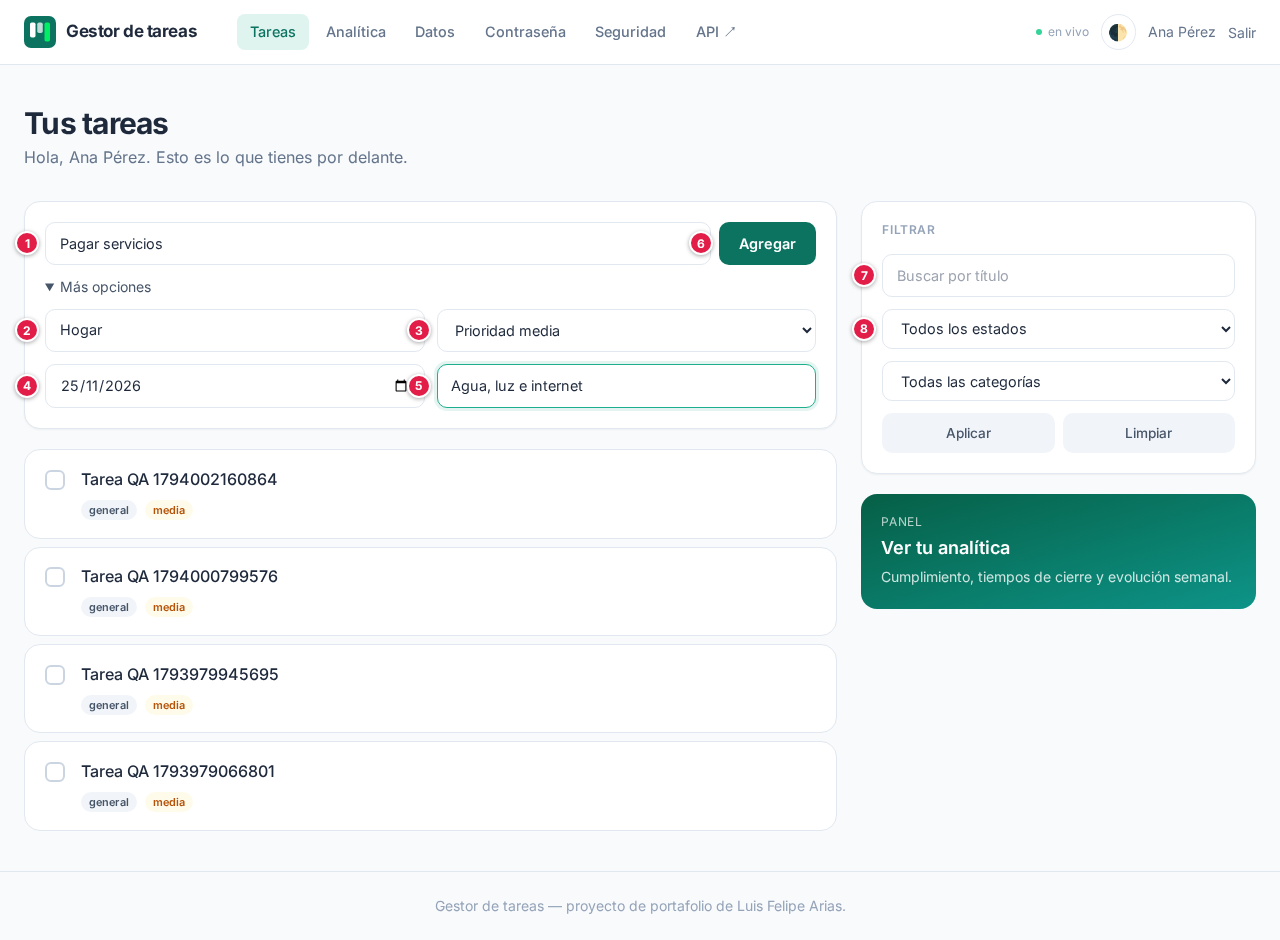
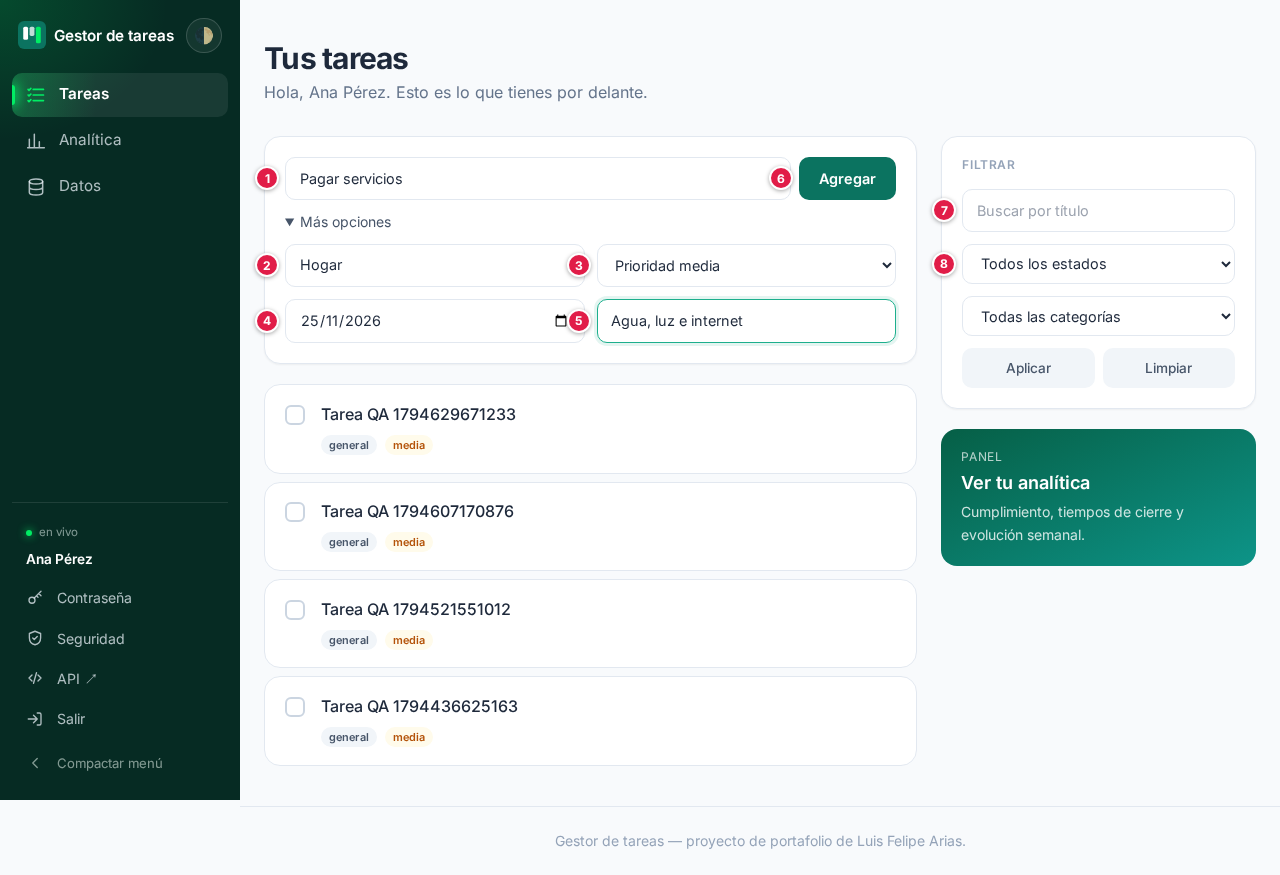
docs(manual): capturas nuevas de producción, menú lateral y compacto, tablet y celular, seis casillas, indicadores, instalación, sin conexión y 404 [skip ci]

diff --git a/docs/MANUAL.md b/docs/MANUAL.md
@@ -118,6 +118,10 @@ Después de la contraseña aparece la pantalla del código:
 
 Si tienes los dos métodos activos, puedes cambiar al otro desde la misma pantalla.
 
+El código se escribe en **seis casillas**, una por dígito: puedes teclearlo o pegarlo completo.
+Un candado sobre el título se abre al enviar el código completo y se sacude si no es válido; con la
+app autenticadora, un anillo muestra cuántos segundos faltan para que la app cambie de código.
+
 La sesión se cierra tras **30 minutos sin actividad** y, en cualquier caso, a las **12 horas**.
 
 ### 4.3.1 Olvidé mi contraseña
@@ -186,6 +190,22 @@ recuperación se bloquea unos minutos. Si no pediste este código, cambia tu con
 
 ### 4.4 Tus tareas
 
+**Menú lateral.** A la izquierda están **Tareas**, **Analítica** y **Datos** (y **Admin** y
+**Usuarios** para el administrador); una luz verde marca la sección actual. Al pie están el aviso
+**en vivo** (los cambios llegan al instante), tu nombre, **Contraseña**, **Seguridad**, **API ↗** y
+**Salir**. **Compactar menú** lo reduce a solo íconos (al pasar el cursor aparece el nombre de
+cada uno) y la preferencia se recuerda en ese equipo.
+
+![Menú lateral compacto con el nombre de la opción al pasar el cursor](img/manual/16-menu-compacto.png)
+
+**En la tablet en vertical y en el celular** el menú se convierte en una **barra inferior**
+translúcida (Tareas, Analítica, Datos y **Más**, que abre una hoja desde abajo con el resto de
+opciones). La página se reacomoda sola al girar la pantalla.
+
+![Informe de productividad en una tablet en vertical](img/manual/17-tablet-vertical.png)
+
+![Tareas en el celular con la hoja Más abierta](img/manual/18-movil-mas.png)
+
 ![Lista de tareas con el formulario y los filtros numerados](img/manual/04-tareas.png)
 
 | # | Campo | Qué escribir |
@@ -212,6 +232,9 @@ marca como completada (o la devuelve a pendiente) y el botón de eliminar la bor
 | 2 | Hasta | Fecha final |
 | 3 | Categoría | Limita a una categoría |
 | 4 | Prioridad | Limita a una prioridad |
+
+Cada indicador lleva un punto de color (verde si va bien, rojo si requiere atención, como las
+tareas vencidas sin cerrar) y una línea de acento abajo; al pasar el cursor la tarjeta se eleva.
 
 Todo se recalcula al cambiar un filtro, y también solo cuando creas, completas o eliminas una
 tarea. **Limpiar filtros** vuelve a mostrarlo todo.
@@ -385,7 +408,22 @@ pandas sobre tu archivo. Las fórmulas se pueden copiar a Power BI.
 **¿Cómo quito un filtro que puse con un clic en un gráfico?** Pulsa la **×** del chip que aparece en
 la barra de filtros, o **Limpiar filtros**.
 
-**¿Qué significa la pantalla "Estamos en mantenimiento"?** El servicio o su base de datos no están respondiendo en ese momento. No se perdió nada: tus tareas y tus datos siguen guardados, y ninguna acción quedó a medias (si no viste la confirmación, no se guardó). La pantalla se actualiza sola y vuelve a la normalidad apenas el servicio responda; también puedes reintentar más tarde.
+**¿Puedo instalarlo como aplicación?** Sí. En Chrome o Edge usa **Instalar aplicación** (ícono
+en la barra de direcciones o menú ⋮); en el iPhone, en Safari, **Compartir → Agregar a inicio**. Se
+abre en su propia ventana y entra directo a tus tareas.
+
+**¿Qué pasa si me quedo sin internet?** Aparece la pantalla **Sin conexión**, que reintenta sola
+cada pocos segundos (o con **Reintentar ahora**) y vuelve a la página cuando hay red.
+
+![Pantalla sin conexión con reintento automático](img/manual/15-sin-conexion.png)
+
+**Abrí un enlace y dice "Esta tarea no está en el tablero".** La dirección no existe (un enlace
+viejo o una tarea eliminada). Usa **Ver tareas** o **Volver al inicio**; si tenías la sesión
+abierta, sigue abierta.
+
+![Página no encontrada](img/manual/14-no-encontrada.png)
+
+**¿Qué significa la pantalla "Estamos en mantenimiento"?** El servicio o su base de datos no están respondiendo en ese momento. No se perdió nada: tus tareas y tus datos siguen guardados, y ninguna acción quedó a medias (si no viste la confirmación, no se guardó). La pantalla se actualiza sola (un anillo muestra los segundos que faltan para el siguiente intento) y vuelve a la normalidad apenas el servicio responda; también puedes reintentar más tarde.
 
 ## 5. Seguridad: tu información protegida
 
